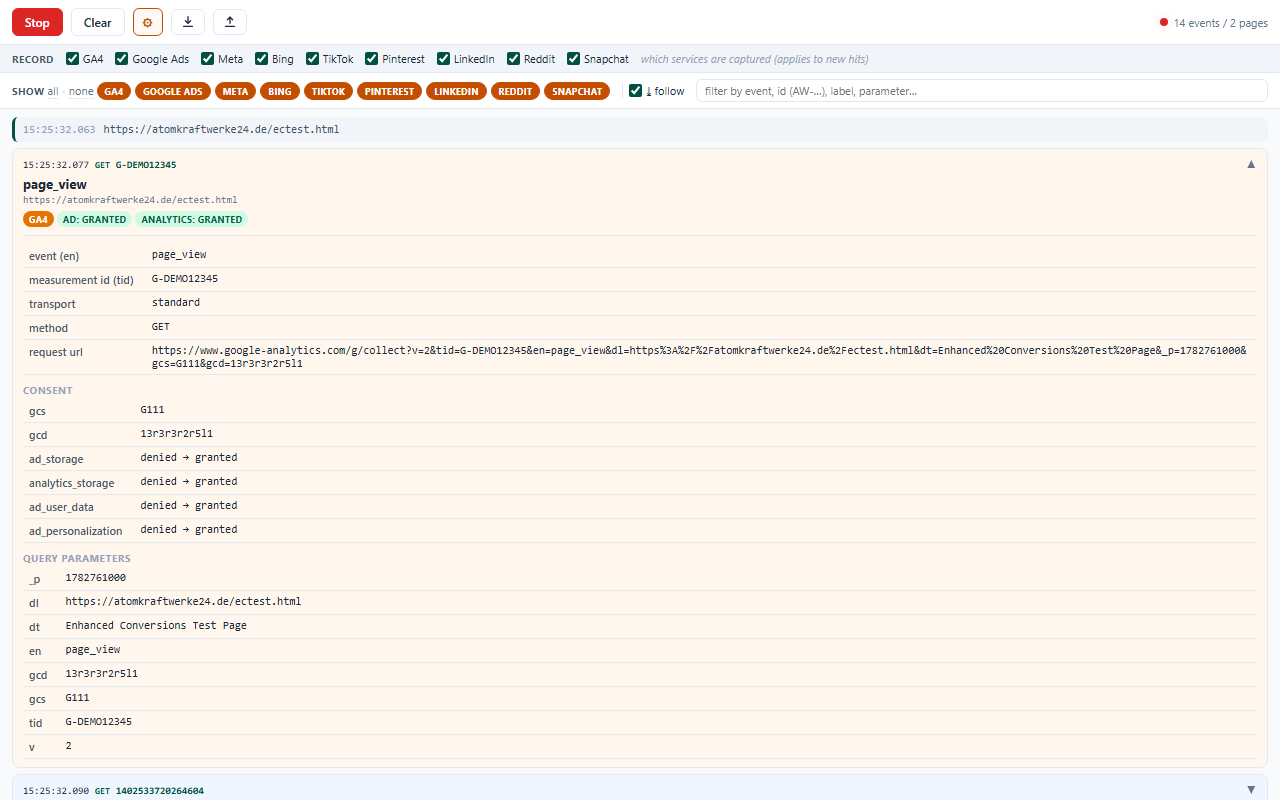
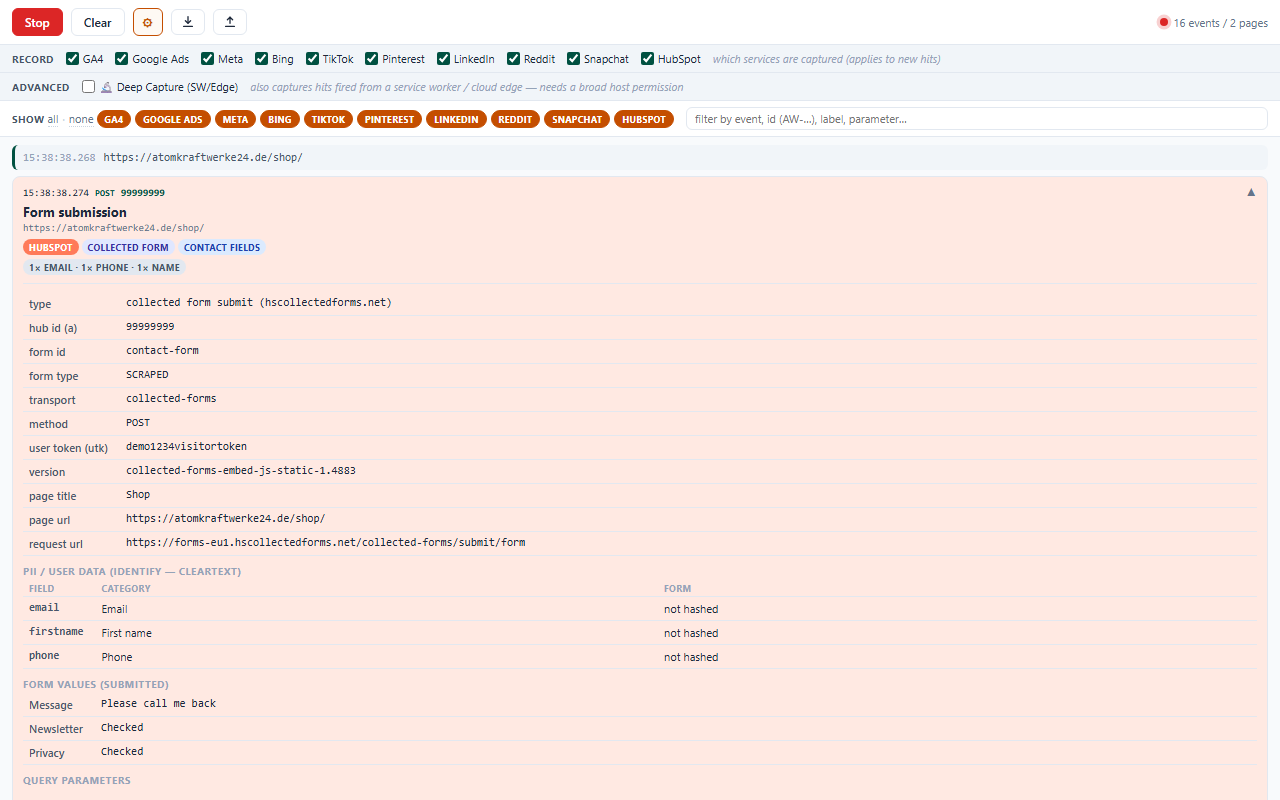
chore(webstore): regenerate assets with HubSpot + PII block
Add a HubSpot page view and a Collected Forms submit (fake cleartext contact
data) to the demo capture, and HubSpot to the promo tagline/chips. The form
submit is the newest hit, so 02-event-detail now expands a HubSpot card showing
the unified PII block ("not hashed") and the submitted form values — showcasing
both new features. Rebuilt store screenshots (10 services) + promo tiles.

Changed region(s): [[0.0, 0.0625, 1.0, 1.0], [0.5, 0.7188, 0.5625, 0.8438]]

diff --git a/scripts/fixtures-demo.js b/scripts/fixtures-demo.js
@@ -47,6 +47,18 @@ const tiktokAddToCart = JSON.stringify({
   },
 });
 
+// HubSpot Collected Forms submit — HubSpot scraping a filled form and shipping it
+// in cleartext. Fake contact data (demo@example.com), so it is safe to show; it
+// makes the top card a HubSpot form whose PII block reads "not hashed".
+const hubspotForm = JSON.stringify({
+  contactFields: { email: 'demo@example.com', firstName: 'Demo User', phone: '5550123' },
+  formSelectorId: '#contact-form',
+  formValues: { Message: 'Please call me back', Newsletter: 'Checked', Privacy: 'Checked' },
+  pageTitle: 'Shop', pageUrl: 'https://atomkraftwerke24.de/shop/',
+  portalId: 99999999, type: 'SCRAPED', utk: 'demo1234visitortoken',
+  version: 'collected-forms-embed-js-static-1.4883', collectedFormId: 'contact-form',
+});
+
 // Each block is one page load. requests[] are replayed in order.
 export const DEMO_BLOCKS = [
   {
@@ -67,6 +79,8 @@ export const DEMO_BLOCKS = [
       { url: 'https://analytics.tiktok.com/api/v2/pixel', method: 'POST', postData: { text: tiktokPageview } },
       // LinkedIn Insight Tag page view (px collect beacon)
       { url: 'https://px.ads.linkedin.com/collect?v=2&fmt=js&pid=12345678&time=1782761000&url=https%3A%2F%2Fatomkraftwerke24.de%2Fectest.html&tm=gtmv2' },
+      // HubSpot page view (__ptq.gif)
+      { url: 'https://track-eu1.hubspot.com/__ptq.gif?a=99999999&v=1.1&pu=https%3A%2F%2Fatomkraftwerke24.de%2Fectest.html&t=Enhanced%20Conversions%20Test%20Page&vi=demo1234visitortoken&cts=1782761000&sd=1920x1080&cd=24-bit&cs=UTF-8&ln=en-US&u=99999999.demo1234visitortoken&b=99999999.1&cc=15' },
     ],
   },
   {
@@ -87,6 +101,9 @@ export const DEMO_BLOCKS = [
       { url: 'https://analytics.tiktok.com/api/v2/pixel', method: 'POST', postData: { text: tiktokAddToCart } },
       // LinkedIn Insight Tag conversion (px collect beacon, conversionId set)
       { url: 'https://px.ads.linkedin.com/collect?v=2&fmt=js&pid=12345678&time=1782761414&conversionId=111111111111&url=https%3A%2F%2Fatomkraftwerke24.de%2Fshop%2F&tm=gtmv2' },
+      // HubSpot Collected Forms submit (cleartext contactFields) — kept last so it
+      // is the newest, top card; 02-event-detail then expands its PII block.
+      { url: 'https://forms-eu1.hscollectedforms.net/collected-forms/submit/form', method: 'POST', postData: { text: hubspotForm } },
     ],
   },
 ];

diff --git a/scripts/generate-screenshots.js b/scripts/generate-screenshots.js
@@ -111,8 +111,8 @@ function promoHtml(iconDataUri, w, h) {
       border-radius:${999 * s}px;padding:${4 * s}px ${12 * s}px;}
   </style></head><body><div class="tile">
     <div class="logo"><img src="${iconDataUri}"><div class="name">Tracking <b>Auditor</b></div></div>
-    <div class="tag">Every GA4, Google Ads, Meta, Bing, TikTok, Pinterest, LinkedIn, Reddit and Snapchat hit of the inspected tab — decoded live in DevTools.</div>
-    ${showChips ? '<div class="chips"><span class="chip">GA4</span><span class="chip">Google Ads</span><span class="chip">Meta</span><span class="chip">Bing</span><span class="chip">TikTok</span><span class="chip">Pinterest</span><span class="chip">LinkedIn</span><span class="chip">Reddit</span><span class="chip">Snapchat</span></div>' : ''}
+    <div class="tag">Every GA4, Google Ads, Meta, Bing, TikTok, Pinterest, LinkedIn, Reddit, Snapchat and HubSpot hit of the inspected tab — decoded live in DevTools.</div>
+    ${showChips ? '<div class="chips"><span class="chip">GA4</span><span class="chip">Google Ads</span><span class="chip">Meta</span><span class="chip">Bing</span><span class="chip">TikTok</span><span class="chip">Pinterest</span><span class="chip">LinkedIn</span><span class="chip">Reddit</span><span class="chip">Snapchat</span><span class="chip">HubSpot</span></div>' : ''}
   </div></body></html>`;
 }
 
